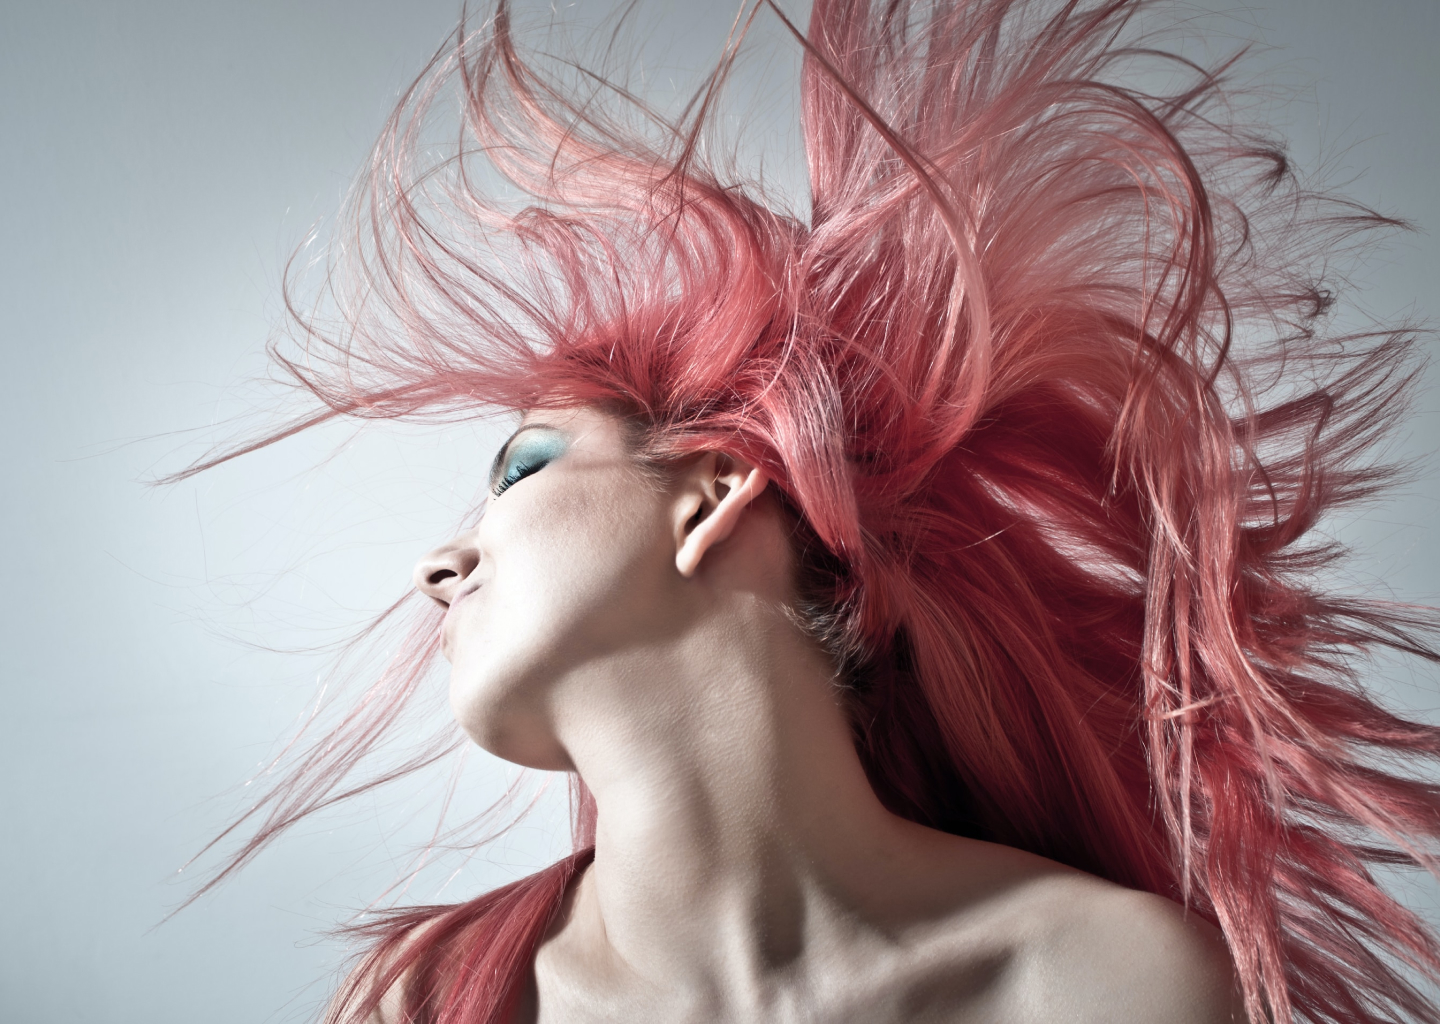
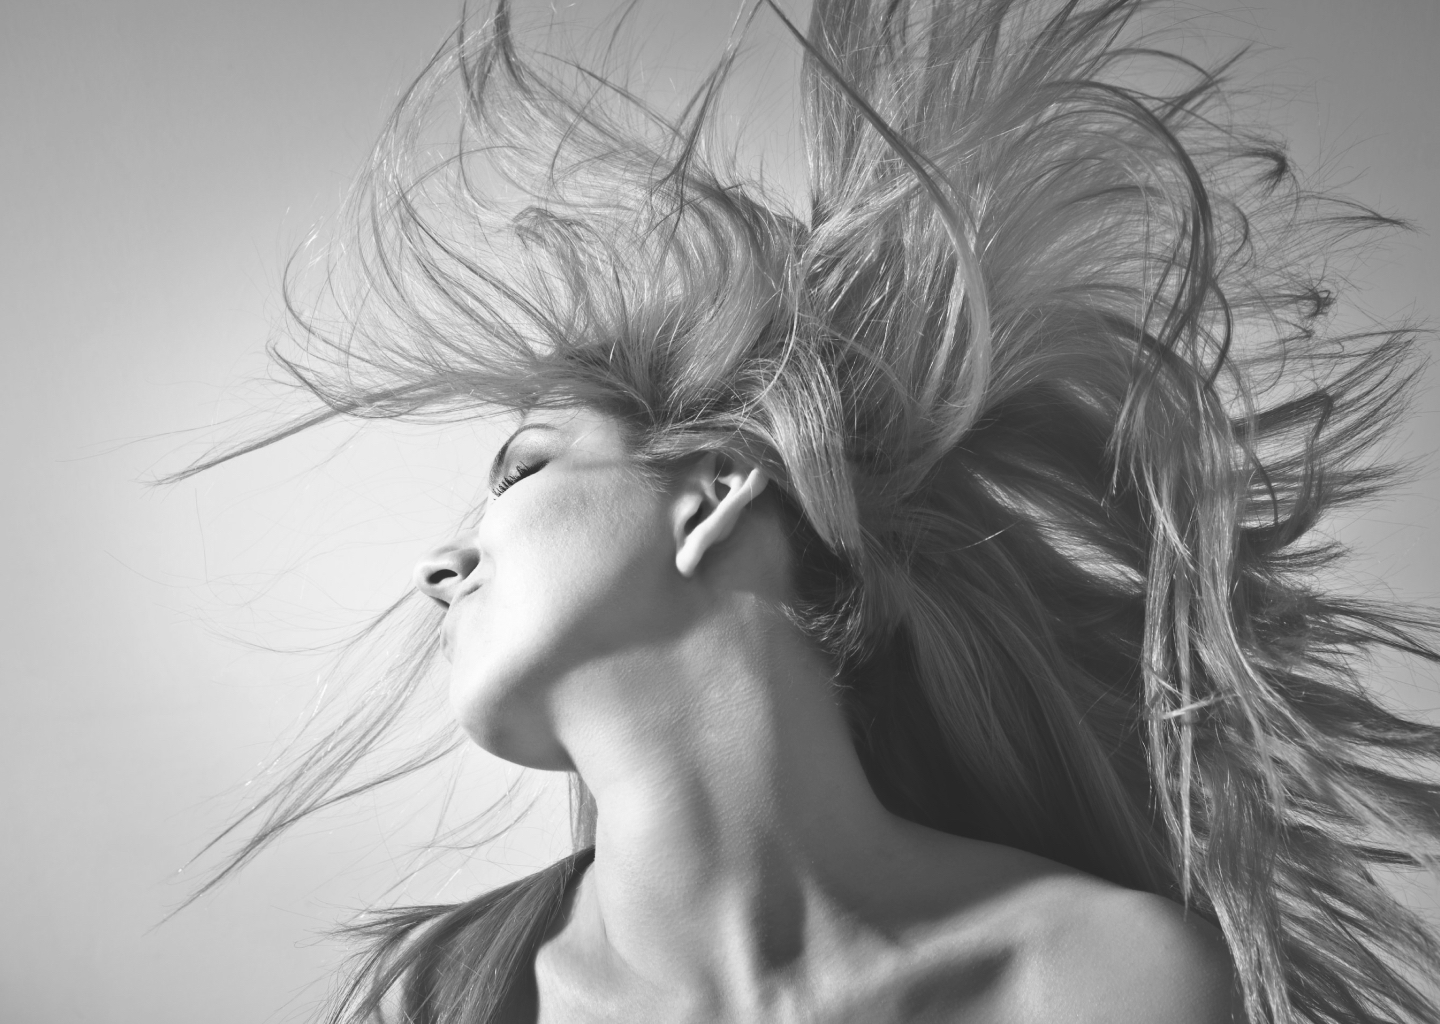
dodano nawigacje, przeniesiony heroimage

diff --git a/src/pages/index.js b/src/pages/index.js
@@ -2,17 +2,20 @@ import * as React from "react";
 import { graphql } from "gatsby";
 import styled from "styled-components";
 import Gallery from "../components/Gallery/Gallery";
+import Navigation from "../components/Navigation/Navigation";
 
 const IndexPage = ({ data }) => {
   return (
     <>
-      <HeroImage imageSource={data.hero.publicURL} />
-      <TitleContainer>
-        <HeroTitle>Cześć piękna</HeroTitle>
-        <HeroSubtitle>
-          <span>zapraszam do</span> Eye Candy
-        </HeroSubtitle>
-      </TitleContainer>
+      <Navigation />
+      <HeroImage imageSource={data.hero.publicURL}>
+        <TitleContainer>
+          <HeroTitle>Cześć piękna</HeroTitle>
+          <HeroSubtitle>
+            <span>zapraszam do</span> Eye Candy
+          </HeroSubtitle>
+        </TitleContainer>
+      </HeroImage>
       <ContentWrapper>
         <Gallery />
       </ContentWrapper>
@@ -29,14 +32,11 @@ export const query = graphql`
 `;
 
 const ContentWrapper = styled.div`
-  margin-top: 50px;
-  padding: 0 20px;
-
-  ${({ theme }) => theme.mq.desktop} {
-    max-width: 1920px;
-    margin: 100px auto;
-    padding: 0 100px;
-  }
+  max-width: 1920px;
+  margin: 0 auto;
+  min-height: 100%;
+  overflow-x: hidden;
+  width: 100vw;
 `;
 
 const HeroImage = styled.div`
@@ -51,7 +51,6 @@ const HeroImage = styled.div`
   background-repeat: no-repeat;
   background-size: cover;
   background-position: 30%;
-  filter: grayscale();
   padding: 35px;
 `;
 
@@ -61,6 +60,8 @@ const TitleContainer = styled.div`
   top: 42%;
   left: 4%;
   text-align: center;
+  filter: none;
+  z-index: 1;
 `;
 
 const HeroTitle = styled.h1`
@@ -68,6 +69,7 @@ const HeroTitle = styled.h1`
   font-family: ${({ theme }) => theme.font.family.caveat};
   font-weight: bold;
   font-style: italic;
+  color: ${({ theme }) => theme.color.darkPink};
   margin: 0;
 `;
 
@@ -80,7 +82,7 @@ const HeroSubtitle = styled.h2`
   span {
     font-family: ${({ theme }) => theme.font.family.caveat};
     font-size: 40px;
-    color: black;
+    color: ${({ theme }) => theme.color.darkPink};
   }
 `;
 export default IndexPage;

diff --git a/src/components/Gallery/Gallery.js b/src/components/Gallery/Gallery.js
@@ -52,7 +52,7 @@ const Gallery = () => {
             return (
               <GalleryItem>
                 <GalleryTitleContainer>
-                  <p>Przedłużanie rzęs</p>
+                  <p>przedłużanie rzęs</p>
                 </GalleryTitleContainer>
                 <SingleImage key={image.node.id} src={image.node.publicURL} />
               </GalleryItem>
@@ -65,7 +65,7 @@ const Gallery = () => {
             return (
               <GalleryItem>
                 <GalleryTitleContainer>
-                  <p>Laminacja rzęs</p>
+                  <p>laminacja rzęs</p>
                 </GalleryTitleContainer>
                 <SingleImage key={image.node.id} src={image.node.publicURL} />
               </GalleryItem>
@@ -78,7 +78,7 @@ const Gallery = () => {
             return (
               <GalleryItem>
                 <GalleryTitleContainer>
-                  <p>Stylizacja brwi</p>
+                  <p>stylizacja brwi</p>
                 </GalleryTitleContainer>
                 <SingleImage key={image.node.id} src={image.node.publicURL} />
               </GalleryItem>
@@ -121,8 +121,9 @@ const GalleryItem = styled.div`
         color: white;
         font-size: 30px;
         line-height: 1rem;
-        font-weight: bold;
-        opacity: 90%;
+        opacity: 100%;
+        font-family: ${({ theme }) => theme.font.family.switzer};
+        letter-spacing: 2px;
       }
     }
   }
@@ -143,13 +144,11 @@ const SingleImage = styled.img`
 
 const GalleryTitleContainer = styled.div`
   position: absolute;
-  font-family: ${({ theme }) => theme.font.family.poppins};
-  font-weight: bold;
+  font-family: ${({ theme }) => theme.font.family.switzer};
   width: 100%;
   text-align: center;
   white-space: nowrap;
   z-index: 1;
-  color: black;
   opacity: 0;
   top: -10%;
   background-color: rgba(178, 1, 116, 0.4);

diff --git a/src/assets/styles/GlobalStyles.js b/src/assets/styles/GlobalStyles.js
@@ -6,29 +6,4 @@ export const GlobalStyle = createGlobalStyle`
     -webkit-font-smoothing: antialiased;
     -moz-osx-font-smoothing: grayscale;
   }
-  
-  html {
-    font-size: 62.5%;
-  }
-  
-  body {
-    margin: 0;
-    font-size: 1.6rem;
-  }
-  
-  h1,h2,h3,h4,h5,h6 {
-    font-family: "Caveat", serif;
-    font-weight: 500;
-    line-height: 1.2;
-  }
-  
-  p, li, a {
-    font-family: "Poppins", sans-serif;
-    font-weight: 400;
-    line-height: 1.5;
-    font-size: 1.5rem;
-  }
-
-  main {
-  }
 `;

diff --git a/src/assets/styles/theme.js b/src/assets/styles/theme.js
@@ -3,6 +3,8 @@ import { css } from "styled-components";
 export const theme = {
   color: {
     pink: "#FF74B1",
+    darkPink: "#4C0033",
+    lightPink: "#E80F88",
   },
   size: {
     desktopHeroHeight: "800px",
@@ -23,6 +25,7 @@ export const theme = {
     family: {
       poppins: '"Poppins", sans-serif',
       caveat: '"Caveat", cursive',
+      switzer: '"Switzer", sans-serif',
     },
   },
   mq: {
